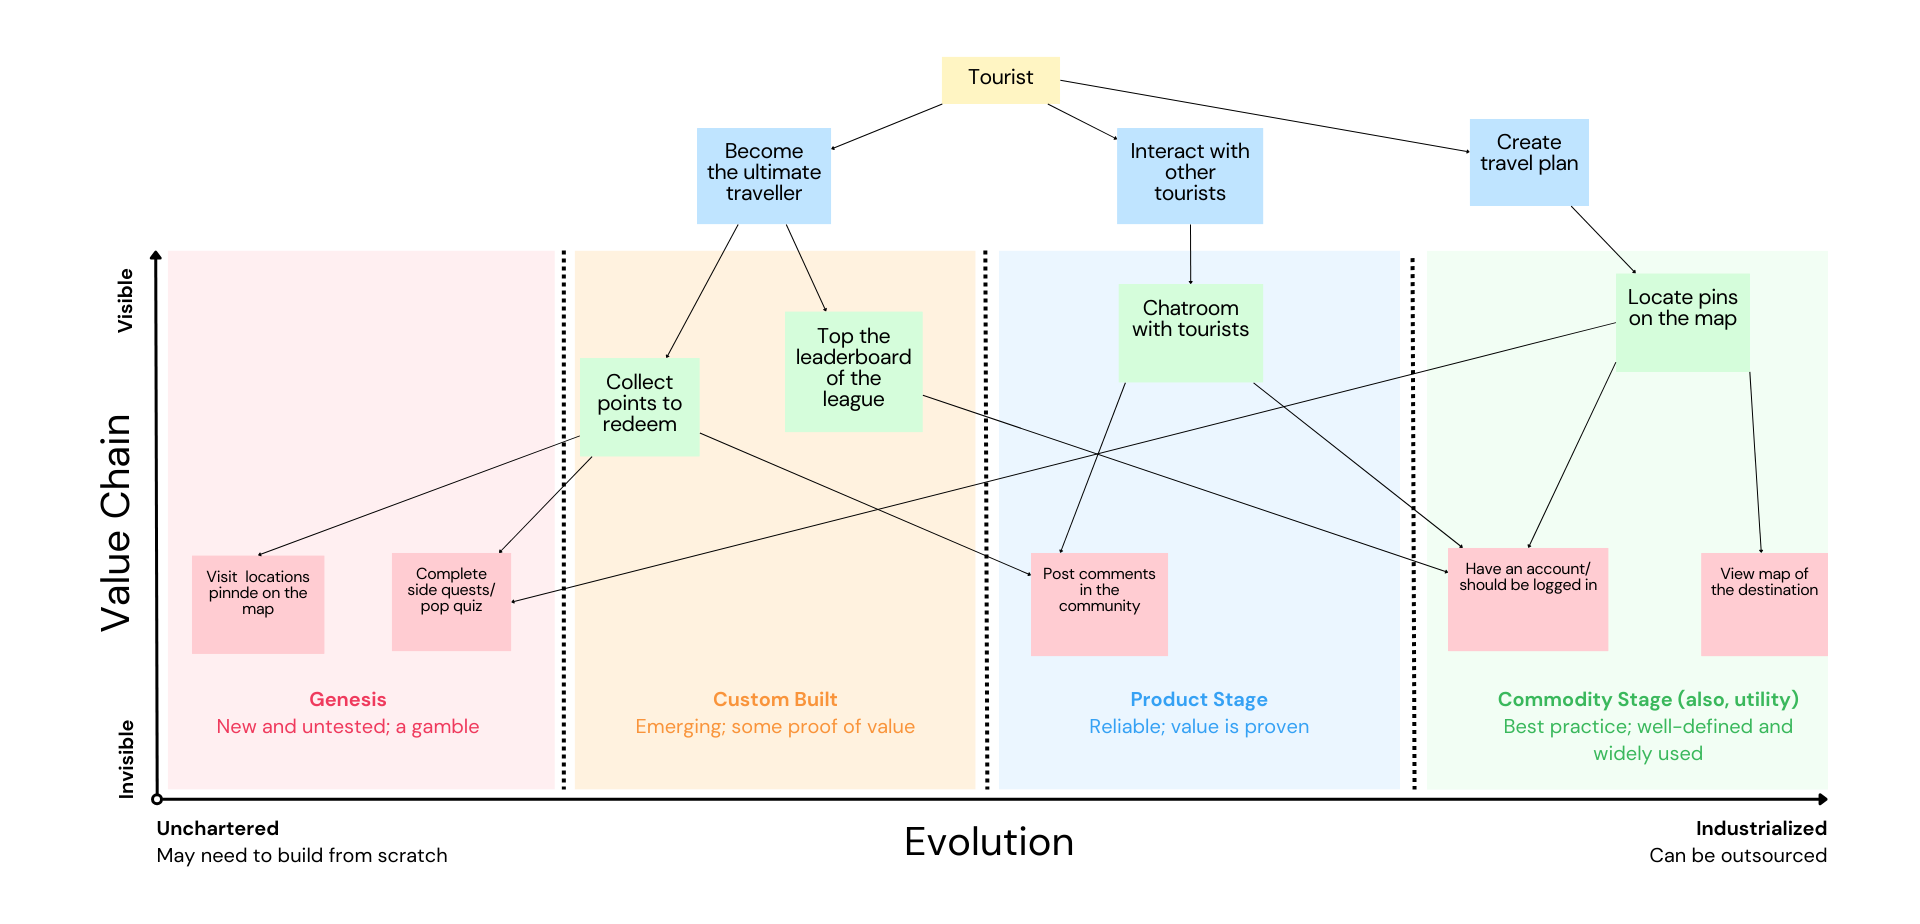
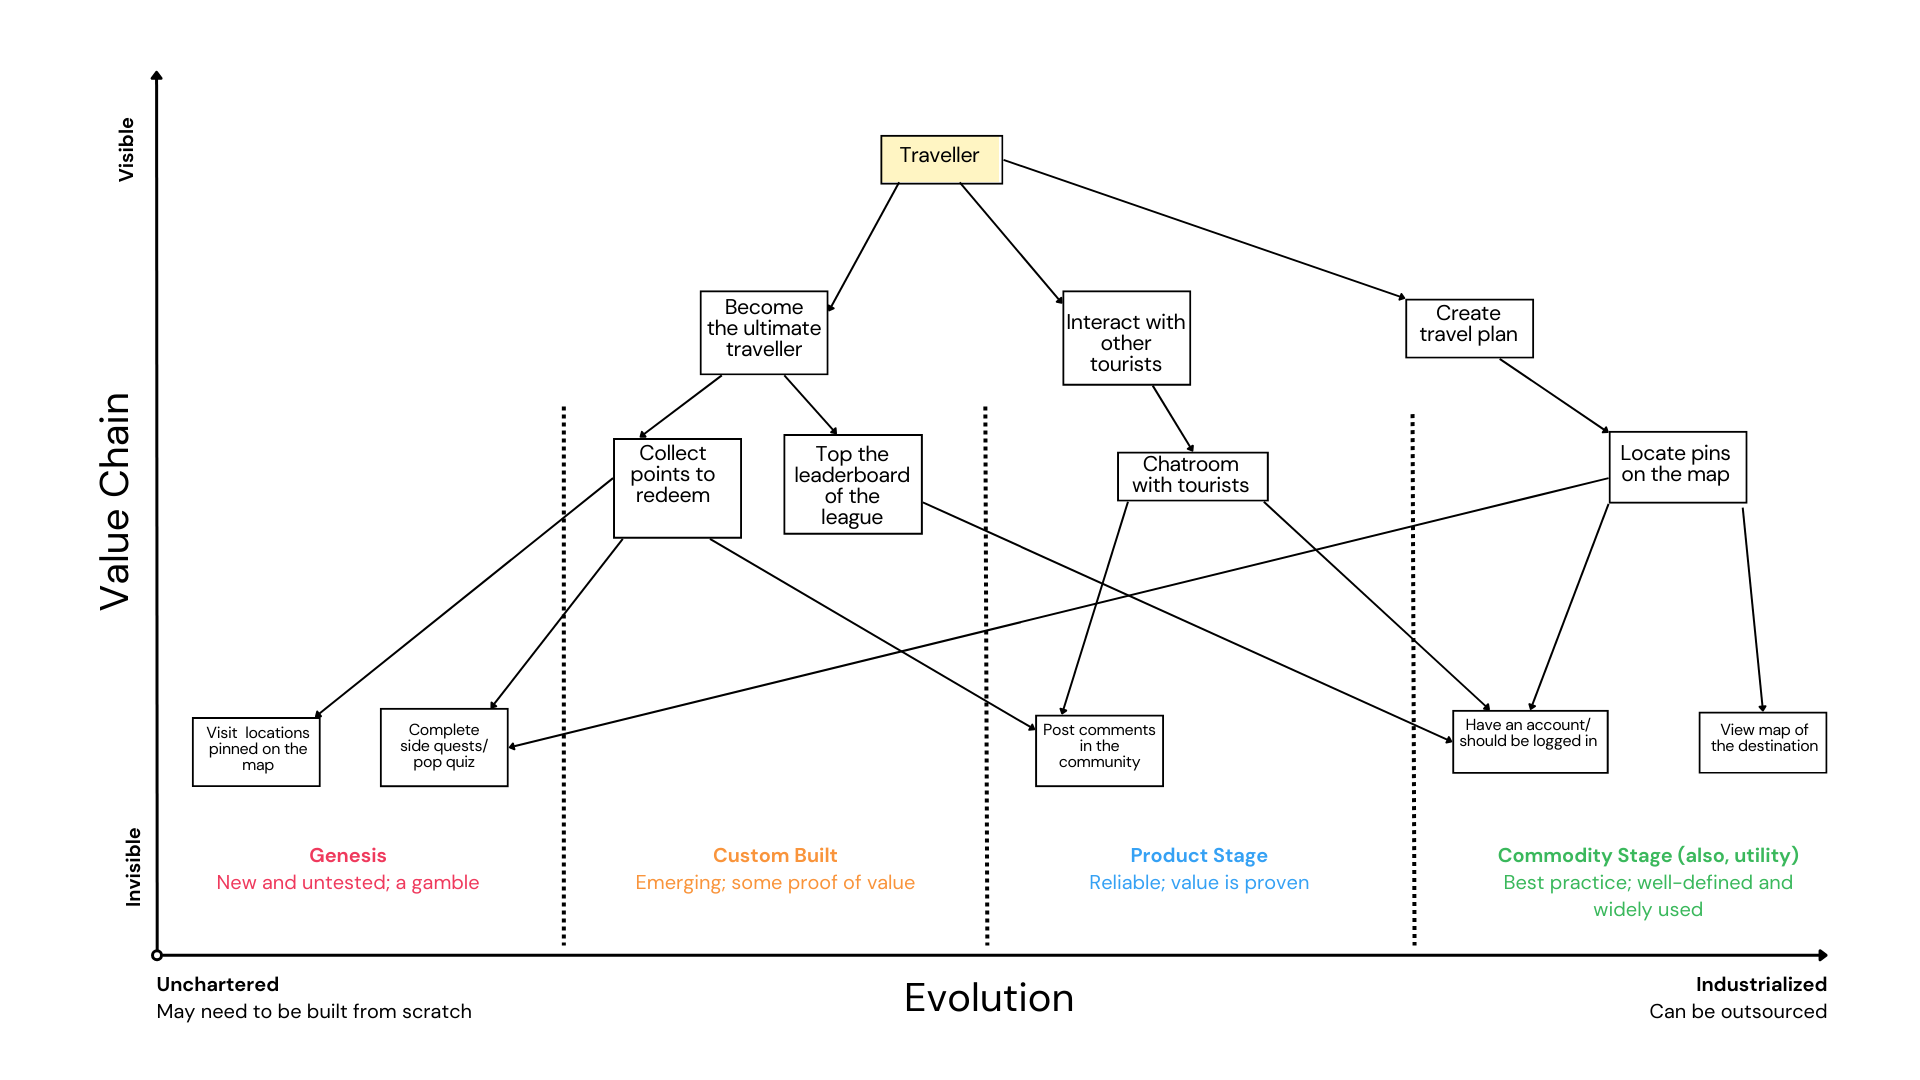
Updated wardley, Market research and Journal entry

diff --git a/report/Team_11_Final_Report.md b/report/Team_11_Final_Report.md
@@ -57,40 +57,29 @@ The main risks are the following:
 
 ## Market Research
 
-### Project Overview
+To identify opportunities for innovation, it is useful to examine the existing players in the travel tech market. The table below presents a comparative analysis of these competitors, outlining their strengths, weaknesses, and potential gaps.
 
-TravelGo is an interactive travel companion platform that combines cultural immersion, social networking, and fun challenges to turn every trip into an adventure.
-
-### Target Audience
-
-- **Backpackers / Solo travellers** who are seeking to be part of a community and want to find off-beat ideas.  
-- **Young professionals / Digital nomads** who are looking for meaningful cultural immersion, not just sightseeing.  
-- **Adventure seekers**, motivated by challenges, exploration, competition.  
-- **Families or groups** looking for activities / side-quests which everyone can enjoy.  
-
-### Competitor Analysis
-
-| Sr No. | Competitor | Strengths | Weaknesses | Opportunity for us |
+| Serial No. | Competitor | Strengths | Weaknesses | Opportunity for us |
 |--------|------------|-----------|------------|---------------------|
 | 1 | **TripRanger** | Gamifies travel, fun challenges | Limited user base, not mainstream, focus mostly on gamification rather than deep cultural immersion | We can combine interactivity and cultural depth, making it more meaningful |
 | 2 | **Polarsteps** | Very popular, creates a visual travel journal, great for reliving your travel experiences. Helps share trips with friends and family | Mostly passive (recording, not interacting); limited social engagement beyond sharing | We add interactivity, side quests, community building |
 | 3 | **Withlocals** | Popular; focused on authentic cultural experiences by connecting with locals/guides | Paid/expensive; depends heavily on guide availability; no gamification or community | Make authentic culture accessible and community driven |
-| 4 | **Viator** | Huge catalog of tours & activities | Overly commercial and not personalized,lacks interactive features | Focus on personalized, fun challenges and cultural immersion rather than generic tours |
+| 4 | **Viator** | Huge catalog of tours & activities | Overly commercial and not personalized, lacks interactive features | Focus on personalized, fun challenges and cultural immersion rather than generic tours |
 | 5 | **Komoot** | Expertise in outdoor navigation and route planning | Very niche (outdoors only) | Add cultural challenges with a social community |
-| 6 | **Mapstr** | Save and share favorite places easily | More like a utility app (maps), lacks engagement, no gamification | Build on map sharing, but with interactive quests, culture and competition |
-
+| 6 | **Mapstr** | Save and share favorite places easily | More like a utility app (maps), lacks engagement, no gamification | Build on map sharing, but with interactive quests, culture and competition | <br>
+<p style="text-align:center;">Table 1 : Competitor Analysis</p>
 
 ### Key Insights
 
 #### Is there demand?  
-Yes. Market trends indicate that travellers increasingly seek experiences over mere sightseeing. Platforms that are interactive and community-driven are especially popular among younger travellers.[[2]](#2)[[3]](#3)[[4]](#4)
+Market trends indicate that travellers increasingly seek experiences over mere sightseeing. Therefore, platforms that are interactive and community-driven are especially popular among younger travellers nowadays.[[2]](#2)[[3]](#3)[[4]](#4)
 
 #### What’s missing in current solutions?  
 - Most travel apps focus on either utility (planning, booking) or authenticity (guided tours).  
 - Few apps combine an interactive, culturally immersive experience with community building.  
 - Existing solutions often lack interactivity, offline usability, or gamified side quests.  
 
-#### How TravelGo! fills that gap  
+#### How TravelGo fills that gap  
 - Integrates interactive, culturally immersive experiences with community engagement into a single platform.  
 - Enables users to complete side quests, join challenges, and earn rewards while exploring off-beat locations.  
 - Promotes social discovery by connecting travellers nearby.  
@@ -233,73 +222,73 @@ the user stories.
 
 ## Challenges
 
-**1. Data Privacy & Trust** : TravelGo collects personal data like name, location, travel history. Mishandling of this data will lead to legal problems and loss of trust from customers.
+**1. Data Privacy & Trust** : TravelGo collects personal data like name, location, travel history etc. Mishandling of this data will lead to legal problems and loss of trust from customers.
 
 * Ambiguity sources:
-    1. How much data should be collected?
-    2. How to balance personalization with privacy?
-    3. How to handle cross-border compliance?
+    - How much data should be collected?
+    - How to balance personalization with privacy?
+    - How to handle cross-border compliance?
 
 * Architectural implications:
-    1. Must implement data minimization by only collecting necessary data.
-    2. Needs strong consent management.
-    3. Secure data storage & transmission.
-    4. Potential need for regional data hosting.
+    - Must implement data minimization by only collecting necessary data.
+    - Needs strong consent management.
+    - Secure data storage & transmission.
+    - Potential need for regional data hosting.
 
 **2. Cultural Sensitivity & Representation** : TravelGo promotes cultural quests and hidden gems. But what one person calls a “hidden gem” may be a sacred site or sensitive local tradition. Misrepresentation could cause backlash or even legal issues.
 
 * Ambiguity sources:
-    1. Who decides what is “authentic” enough to feature? 
-    2. How do you avoid cultural appropriation or trivialization ?
+    - Who decides what is “authentic” enough to feature? 
+    - How do you avoid cultural appropriation or trivialization ?
 
 * Architectural implications:
-    1. Content vetting workflows: TravelGo might need local validators or an approval pipeline for sensitive submissions.
-    2. Metadata tagging for cultural content for example, sensitive, sacred or family-friendly, requires flexible data models.
-    3. May need regional customisation.
+    - Content vetting workflows: TravelGo might need local validators or an approval pipeline for sensitive submissions.
+    - Metadata tagging for cultural content for example, sensitive, sacred or family-friendly, requires flexible data models.
+    - May need regional customisation.
 
 **3. Technical Constraints** : Travellers often have unreliable connectivity. But TravelGo’s core features like locating pins, chat and quests may depend on online services.
 
 * Ambiguity sources:
-    1. Which features should work offline? 
-    2. How much data caching is feasible on a device without killing storage and battery?
+    - Which features should work offline? 
+    - How much data caching is feasible on a device without killing storage and battery?
 
 * Architectural implications:
-    1. May requires offline-first design.
-    2. GPS tracking without internet would depend on OS support and API of offline maps.
+    - May requires offline-first design.
+    - GPS tracking without internet would depend on OS support and API of offline maps.
 
 **4. Community Moderation & Safety** : TravelGo’s chatrooms and commenting features are central to the social experience, but community spaces online are magnets for spam, harassment, scams, or inappropriate content.
 
 * Ambiguity sources:
-    1. Should moderation be automated using AI or keyword blocking, or human-led by moderators?
-    2. How do you enforce rules across different cultures and languages?
-    3. Should moderation be centralized or distributed?
+    - Should moderation be automated using AI or keyword blocking, or human-led by moderators?
+    - How do you enforce rules across different cultures and languages?
+    - Should moderation be centralized or distributed?
 
 * Architectural implications:
-    1. Need for scalable content moderation pipelines.
-    2. Storage and processing of flagged content would introduce compliance and legal liability.
-    3. Balancing low latency (real-time chat) with content filtering can be technically tricky.
+    - Need for scalable content moderation pipelines.
+    - Storage and processing of flagged content would introduce compliance and legal liability.
+    - Balancing low latency (real-time chat) with content filtering can be technically tricky.
 
 **5. Ecosystem Dependencies** : TravelGo will make use of third party APIs for functionalities like the map or login.
 
 * Ambiguity sources:
-    1. What happens if a provider changes pricing or kills an API?
-    2. What if services are unavailable in some regions?
-    3. Should you design for multi-provider fallback or lock-in with one provider?
+    - What happens if a provider changes pricing or kills an API?
+    - What if services are unavailable in some regions?
+    - Should you design for multi-provider fallback or lock-in with one provider?
 
 * Architectural implications:
-    1. Need abstraction layers and not hardcode to any single API.
-    2. Consider vendor diversity.
-    3. Monitor latency and reliability across providers.
+    - Need abstraction layers and not hardcode to any single API.
+    - Consider vendor diversity.
+    - Monitor latency and reliability across providers.
 
 ## Wardley Map
-The Wardley map for TravelGo highlights how the platform combines innovative, custom feautures with standardized, commodity services.
+A wardley map is a visual tool that shows the components of a system along two dimensions: visibility to the user (value chain) and evolution over time from Genesis → Custom → Product → Commodity. It helps identify where innovation lies, what can be standardized, and how components depend on one another. This makes it useful for aligning architectural decisions with strategic priorities. The wardley map for TravelGo highlights how the platform combines innovative, custom feautures with standardized, commodity services.
 ![WardleyMap](/img/WardleyMap.png)
 <p style="text-align:center;">Figure 2 : Wardley map</p>
 
-**Genesis** : This space contains novel, experimental features like side quests, cultural quizes and souvenir based rewards which are not yet mainstream in the travel tech domain. They provide differentiation, but also present a high risk of adoption and design.
-**Custom Built**: Features like leaderboards and points system are placed here. While interactive platforms are popluar in other domains like fitness and education, applying it specifically to cultural travel remains relatively bespoke. These features distinguish TravelGo from commodity travel apps but are less risky than Genesis elements.
-**Product Stage**: More well known features such as community chatrooms and posting comments fall under this category. These are standard capabilities available in many social or booking apps, but TravelGo customizes them for cultural travel contexts. They are visible to users but do not offer radical innovation.
-**Commodity Stage**: Underlying infrastructure such as digital maps, location pinning, user accounts and APIs are considered commodity. They are invisible to end-users and widely available through third-party providers like Google Maps. TravelGo does not attempt to innovate here but instead rely on stable, low-cost services.
+**Genesis** : This space contains novel, experimental features like side quests, cultural quizes and souvenir based rewards which are not yet mainstream in the travel tech domain. They provide differentiation, but also present a high risk of adoption and design. <br>
+**Custom Built**: Features like leaderboards and points system are placed here. While interactive platforms are popluar in other domains like fitness and education, applying it specifically to cultural travel remains relatively bespoke. These features distinguish TravelGo from commodity travel apps but are less risky than Genesis elements. <br>
+**Product Stage**: More well known features such as community chatrooms and posting comments fall under this category. These are standard capabilities available in many social or booking apps, but TravelGo customizes them for cultural travel contexts. They are visible to users but do not offer radical innovation. <br>
+**Commodity Stage**: Underlying infrastructure such as digital maps, location pinning, user accounts and APIs are considered commodity. They are invisible to end-users and widely available through third-party providers like Google Maps. TravelGo does not attempt to innovate here but instead rely on stable, low-cost services. <br>
 
 ## Revenue Model
 

diff --git a/journals/Radha_Mujumdar.md b/journals/Radha_Mujumdar.md
@@ -2,3 +2,13 @@
 Our group was formed on 2nd September. Soon after, I met the team for about an hour to get to know each other and discuss potential systems we could choose. On Thursday, 4th September, we finalized our system, "TravelGo!", after two meetings and extensive brainstorming. We initially considered domains like finance and disaster management, but evaluating feasibility and scope, we decided to explore other areas such as travel, which led to the idea of TravelGo.
 ## Week 2
 On Monday, 8th September, we scheduled a meeting with the TA to discuss our system idea and the potential steps moving forward. After the meeting, the team met to divide tasks for the week. I was assigned the market research. On Tuesday, we collaborated in the library for about two hours to prepare the project plan, which was due on 15th September. Over the next few days, I focused on the market research section, analyzing potential competitors and their approaches.
+
+## Week 2
+- Had a team meeting on tuesday after the lecture on Wednesday from 3:30pm to 5:15pm where we worked on the following things 
+    1. Reviewed work done until now on the report
+    2. Discussed future steps and created the roadmap
+    3. Designated tasks for week 3
+    4. Brainstorming regarding POC
+- Thursday and Friday, I then worked on the wardley map and challenges section for the report as discussed in the team meeting. Researched a bit about wardley maps and how can I create one for our system. Brainstormed on possible challenges and sources of ambiguity our system could face.
+- Joined a team meeting online on Saturday from 7pm to 10pm. We went through the report together and gave feedback on each other's sections. Also, looked at the flow of the report and came up with a better, new structure for the same.
+- Also implemented the suggested changes during the meeting, corrected a few things in the wardley map and added some info in the same section. Also removed the problem overview and target audience section as it was redundant and overlapped with other sections.
